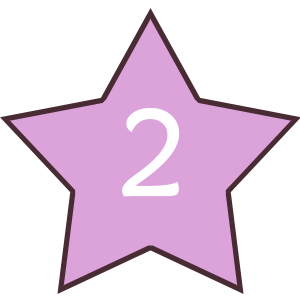
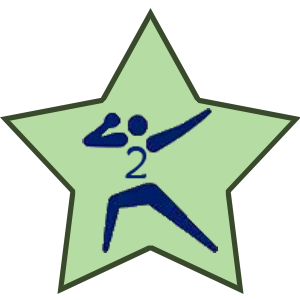
Update pics, change keys to 1234

diff --git a/CATS/Source/Engine/Globals.cs b/CATS/Source/Engine/Globals.cs
@@ -20,17 +20,17 @@ namespace KATSS
         public static int cheerP2 = 0;
 
         public static List<Keys> Player1KeySet = new List<Keys>{Keys.D1, Keys.D2, Keys.D3, Keys.D4};
-        public static List<Keys> Player2KeySet = new List<Keys>{Keys.NumPad7, Keys.NumPad8, Keys.NumPad9, Keys.NumPad6};
+        public static List<Keys> Player2KeySet = new List<Keys>{Keys.NumPad1, Keys.NumPad2, Keys.NumPad3, Keys.NumPad4};
         public static Dictionary<Keys,string> DropItemImageList = new Dictionary<Keys, string> 
                                                                 {
                                                                     {Keys.D1, "icon1"},
                                                                     {Keys.D2, "icon2"},
                                                                     {Keys.D3, "icon3"},
                                                                     {Keys.D4, "icon4"},
-                                                                    {Keys.NumPad6, "icon6"},
-                                                                    {Keys.NumPad7, "icon7"},
-                                                                    {Keys.NumPad8, "icon8"},
-                                                                    {Keys.NumPad9, "icon9"}
+                                                                    {Keys.NumPad1, "icon1"},
+                                                                    {Keys.NumPad2, "icon2"},
+                                                                    {Keys.NumPad3, "icon3"},
+                                                                    {Keys.NumPad4, "icon4"}
                                                                 };
 
         public static Dictionary<Keys, string> PoseImageList = new Dictionary<Keys, string>
@@ -39,10 +39,10 @@ namespace KATSS
                                                                     {Keys.D2, "pose1"},
                                                                     {Keys.D3, "pose2"},
                                                                     {Keys.D4, "pose3"},
-                                                                    {Keys.NumPad6, "pose"},
-                                                                    {Keys.NumPad7, "pose1"},
-                                                                    {Keys.NumPad8, "pose2"},
-                                                                    {Keys.NumPad9, "pose3"}
+                                                                    {Keys.NumPad1, "cat 2 p1"},
+                                                                    {Keys.NumPad2, "cat 2 p2"},
+                                                                    {Keys.NumPad3, "cat 2 p3"},
+                                                                    {Keys.NumPad4, "cat 2 p4"}
                                                                 };
         /*
         public static Dictionary<Keys, Texture2D> PoseTextureList = new Dictionary<Keys, Texture2D>

diff --git a/CATS/Source/World.cs b/CATS/Source/World.cs
@@ -19,7 +19,7 @@ namespace KATSS
         {
             bg = new Item2D("Images\\background", new Vector2(0,0), new Vector2(1920, 1080));
             player1 = new Player("Images\\front", new Vector2(318, 440), new Vector2(388,478), Keys.A, Keys.D, true);
-            player2 = new Player("Images\\front", new Vector2(1278, 440), new Vector2(388, 478), Keys.Left, Keys.Right, false);
+            player2 = new Player("Images\\cat2 front", new Vector2(1278, 440), new Vector2(388, 478), Keys.Left, Keys.Right, false);
             bar1.SetCheerValue(0);
             bar2.SetCheerValue(0);
         }
